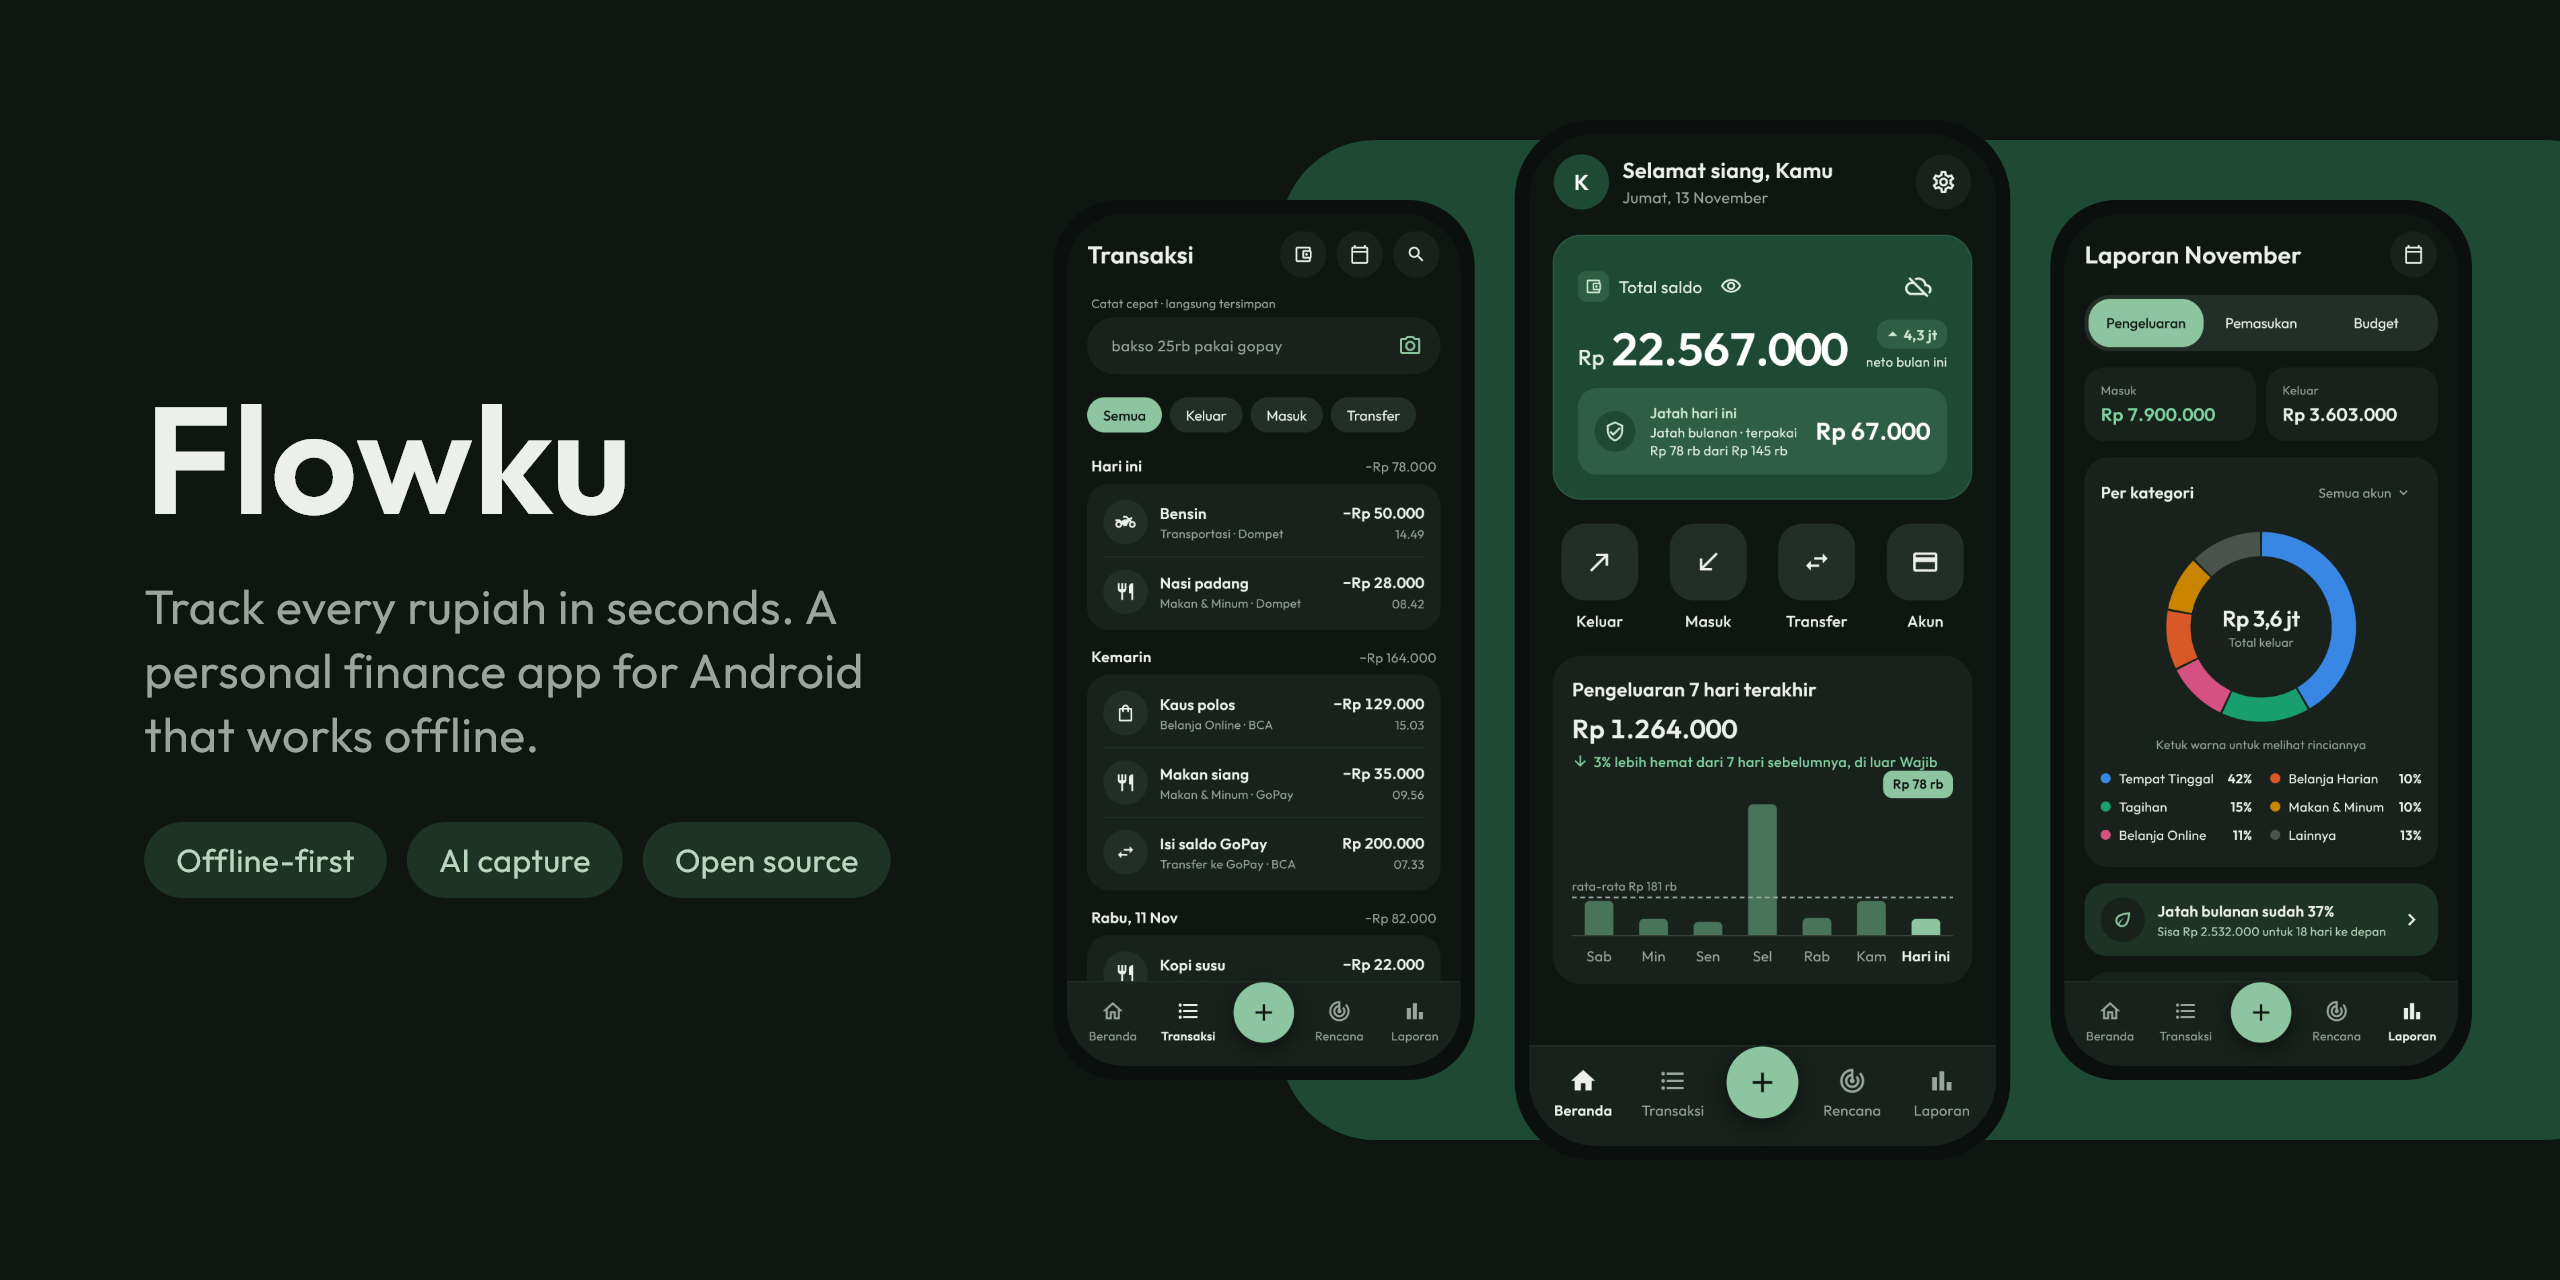
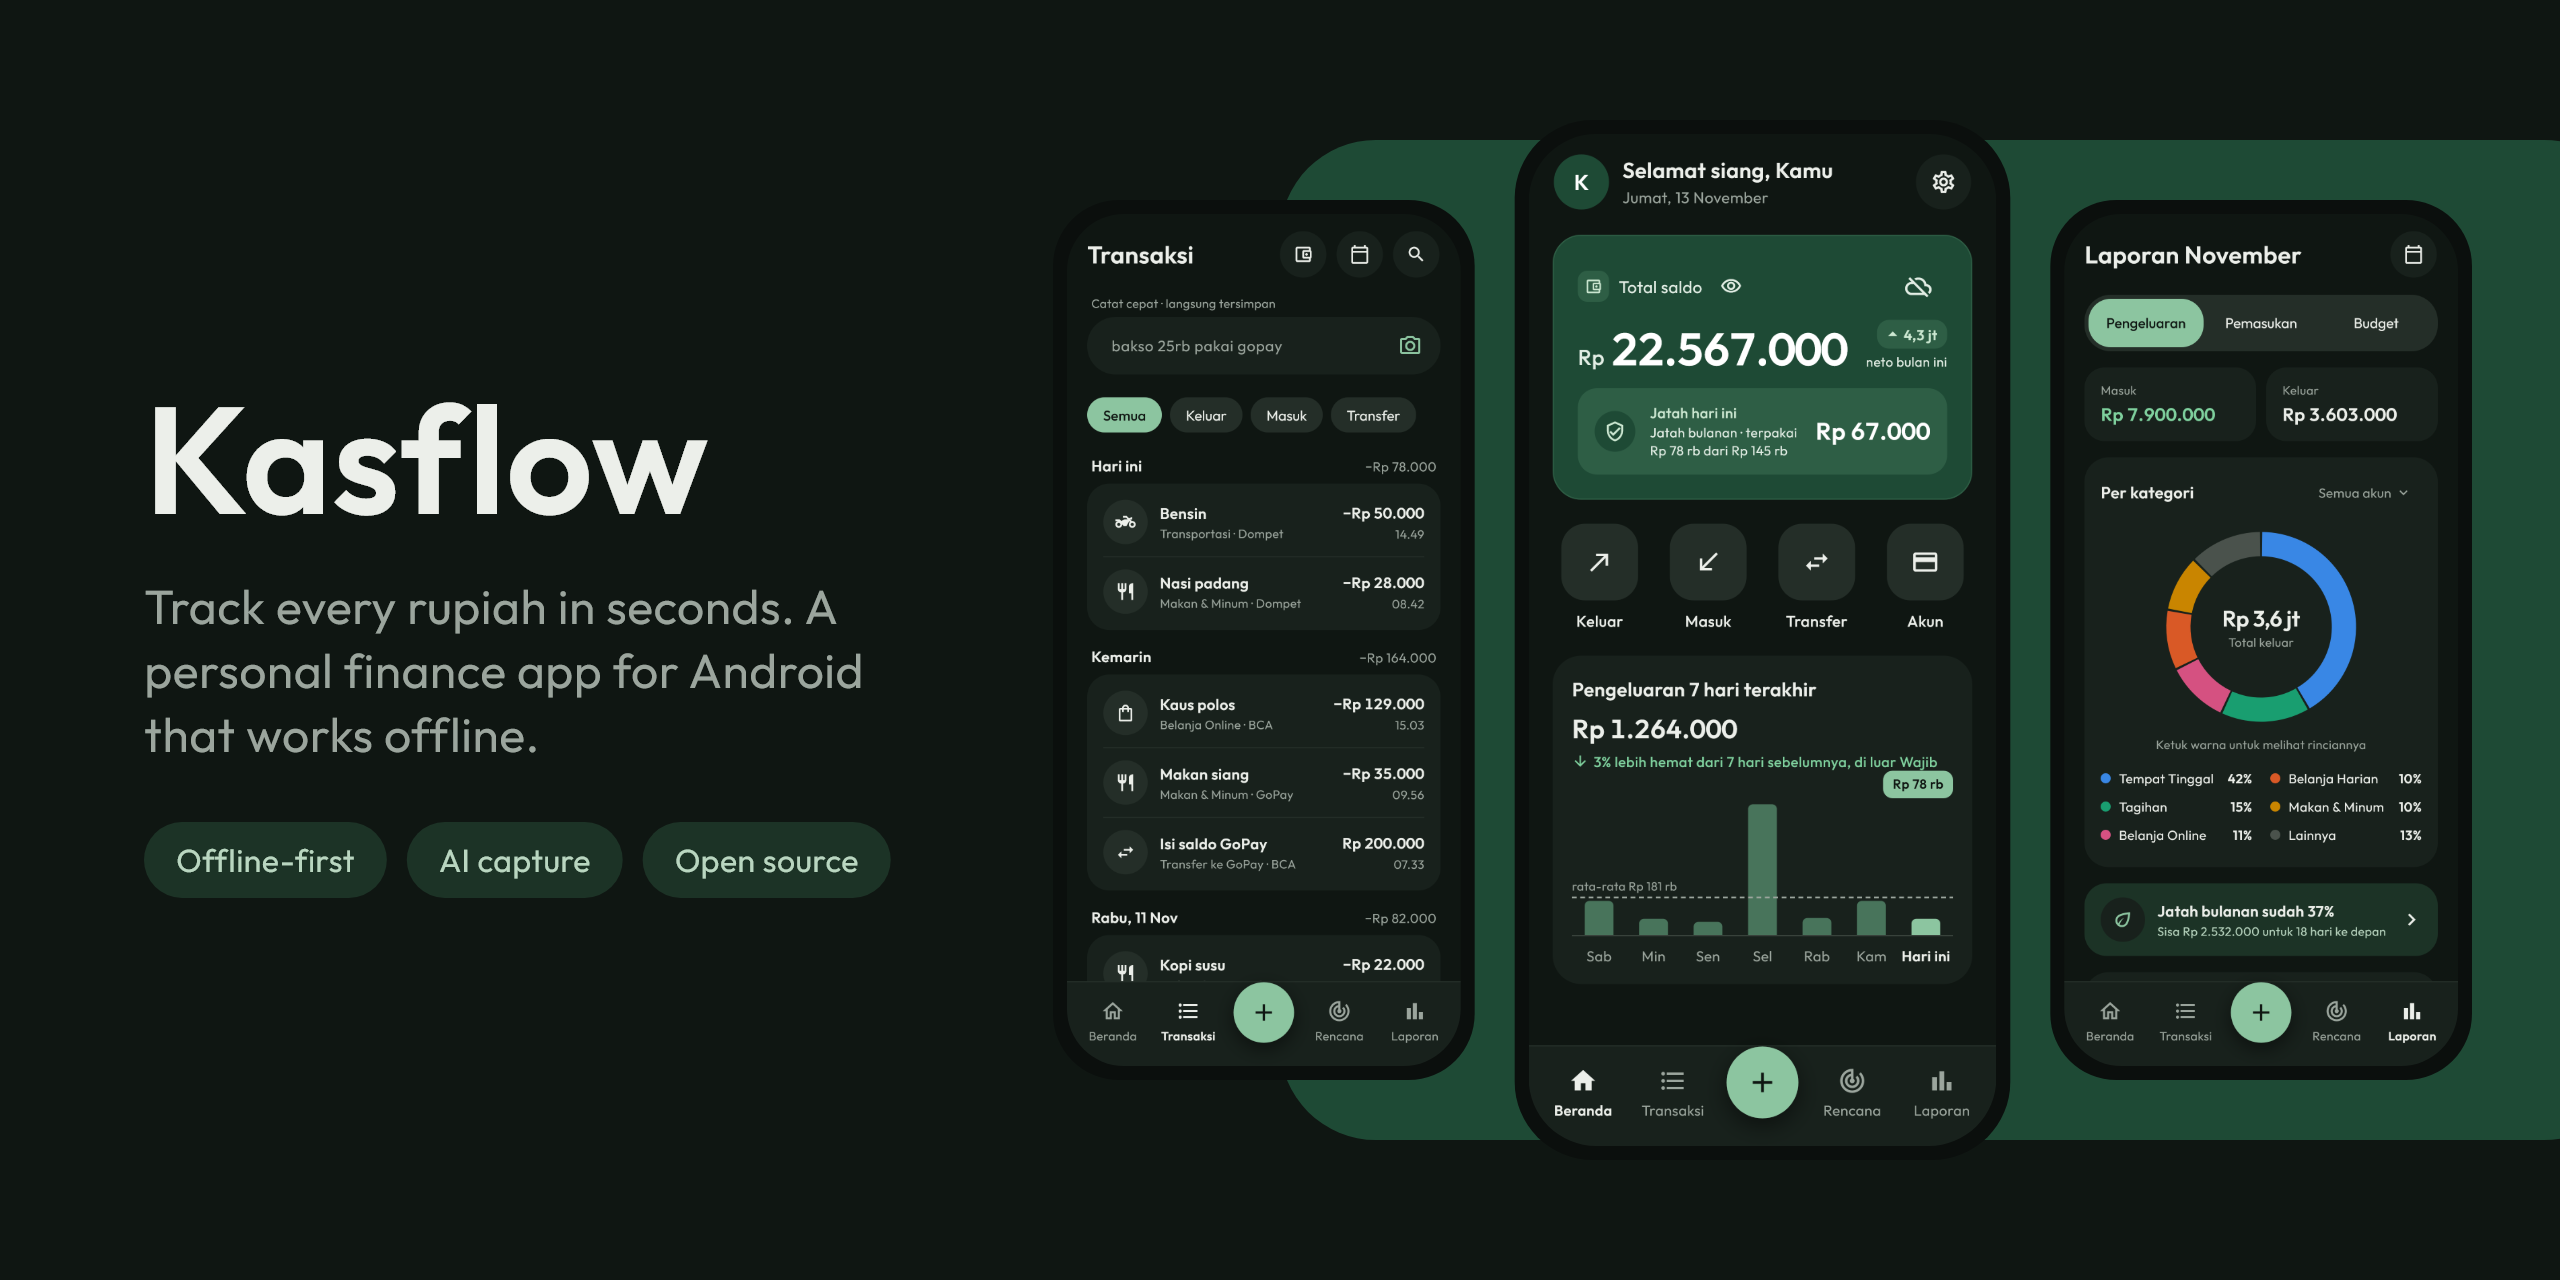
feat: rename the app to Kasflow

Changed region(s): [[0.0625, 0.3125, 0.2812, 0.4062]]

diff --git a/lib/screens/onboarding.dart b/lib/screens/onboarding.dart
@@ -970,7 +970,7 @@ class _NotificationIntro extends StatelessWidget {
       child: enabled
           ? step(
               null,
-              const Text('Flowku sudah boleh membaca notifikasi'),
+              const Text('Kasflow sudah boleh membaca notifikasi'),
               key: const ValueKey('on'),
               trailing: TextButton(
                 onPressed: openNotificationAccessSettings,
@@ -986,7 +986,7 @@ class _NotificationIntro extends StatelessWidget {
                 TextSpan(
                   children: [
                     TextSpan(text: 'Nyalakan '),
-                    TextSpan(text: 'Flowku', style: TextStyle(fontWeight: FontWeight.w600)),
+                    TextSpan(text: 'Kasflow', style: TextStyle(fontWeight: FontWeight.w600)),
                     TextSpan(text: ' di daftar Akses notifikasi, lalu kembali ke sini'),
                   ],
                 ),
@@ -1021,7 +1021,7 @@ class _NotificationIntro extends StatelessWidget {
                       active: active,
                       delay: const Duration(milliseconds: 120),
                       child: Text(
-                        'Setiap ada transaksi di BCA, GoPay, DANA, dan lainnya, Flowku menyiapkan catatannya. '
+                        'Setiap ada transaksi di BCA, GoPay, DANA, dan lainnya, Kasflow menyiapkan catatannya. '
                         'Kamu tinggal cek, lalu simpan.',
                         style: AppText.body.copyWith(height: 1.5, color: c.inkMuted),
                       ),
@@ -1029,7 +1029,7 @@ class _NotificationIntro extends StatelessWidget {
                     const SizedBox(height: 22),
                     ExcludeSemantics(child: _NotificationDemo(active: active)),
                     const SizedBox(height: 24),
-                    // Two things must be on, and only the first is Flowku's to ask for: Android lets it
+                    // Two things must be on, and only the first is Kasflow's to ask for: Android lets it
                     // read what other apps post, and the bank apps must post something to read.
                     Text('Cara mengaktifkan', style: AppText.bodyStrong),
                     const SizedBox(height: AppSpace.gap),

diff --git a/lib/app_lock.dart b/lib/app_lock.dart
@@ -8,7 +8,7 @@ import 'db.dart';
 import 'theme.dart';
 import 'ui.dart';
 
-// "Kunci dengan sidik jari": with it on, Flowku opens behind a lock that the phone's fingerprint
+// "Kunci dengan sidik jari": with it on, Kasflow opens behind a lock that the phone's fingerprint
 // (or its PIN, pattern or password) lifts.
 
 /// Pengaturan's switch (pref 'app_lock'); off unless turned on.
@@ -81,7 +81,7 @@ class _AppLockState extends State<AppLock> with WidgetsBindingObserver {
     if (_asking) return;
     _asking = true;
     // A phone whose screen lock was removed meanwhile cannot ask, so it opens.
-    final ok = await confirmOwner('Buka Flowku') ?? true;
+    final ok = await confirmOwner('Buka Kasflow') ?? true;
     _asking = false;
     if (ok && mounted) setState(() => _locked = false);
   }
@@ -118,7 +118,7 @@ class _LockScreen extends StatelessWidget {
                 child: Icon(Icons.lock_outline, size: 32, color: c.onHero),
               ),
               const SizedBox(height: 18),
-              Text('Flowku terkunci', style: AppText.title.copyWith(fontSize: 20)),
+              Text('Kasflow terkunci', style: AppText.title.copyWith(fontSize: 20)),
               const SizedBox(height: 6),
               Text(
                 'Buka dengan sidik jari atau kunci layar HP.',

diff --git a/screenshots/readme_test.dart b/screenshots/readme_test.dart
@@ -199,7 +199,7 @@ void main() {
   setUpAll(() async {
     await _loadFonts();
     await initializeDateFormatting('id_ID');
-    final dir = await Directory.systemTemp.createTemp('flowku-readme');
+    final dir = await Directory.systemTemp.createTemp('kasflow-readme');
     db = PowerSyncDatabase(schema: schema, path: '${dir.path}/readme.db');
     await db.initialize();
     await _seed();
@@ -323,7 +323,7 @@ class _Hero extends StatelessWidget {
               mainAxisAlignment: MainAxisAlignment.center,
               crossAxisAlignment: CrossAxisAlignment.start,
               children: [
-                Text('Flowku', style: AppText.title.copyWith(fontSize: 76, height: 1, color: c.ink)),
+                Text('Kasflow', style: AppText.title.copyWith(fontSize: 76, height: 1, color: c.ink)),
                 const SizedBox(height: 20),
                 Text(
                   'Track every rupiah in seconds. A personal finance app for Android that works offline.',

diff --git a/android/app/src/main/kotlin/com/cashflowapp/cashflow_app/AllowanceWidget.kt b/android/app/src/main/kotlin/com/cashflowapp/cashflow_app/AllowanceWidget.kt
@@ -73,12 +73,12 @@ class AllowanceWidget : AppWidgetProvider() {
             var over = false
             val day = today()
             when {
-                d == null -> detail = "Buka Flowku sekali untuk memuat jatah"
+                d == null -> detail = "Buka Kasflow sekali untuk memuat jatah"
                 !d.has("name") -> {
                     title = "Atur budget untuk melihat jatah harian"
-                    detail = "Buka Rencana di Flowku"
+                    detail = "Buka Rencana di Kasflow"
                 }
-                day >= d.getLong("endDay") -> detail = "${d.getString("name")} · periode baru, buka Flowku"
+                day >= d.getLong("endDay") -> detail = "${d.getString("name")} · periode baru, buka Kasflow"
                 else -> {
                     val name = d.getString("name")
                     val limit = d.getLong("limit")

diff --git a/test/screens_smoke_test.dart b/test/screens_smoke_test.dart
@@ -40,7 +40,7 @@ void main() {
       await tester.drag(find.byType(PageView), const Offset(-300, 0)); // swipe to page 2
       await tester.pumpAndSettle();
       expect(find.text('Catat otomatis dari notifikasi bank'), findsOneWidget);
-      // Access off here: both steps show on the one screen, the first asking for Flowku's access.
+      // Access off here: both steps show on the one screen, the first asking for Kasflow's access.
       expect(find.textContaining('di daftar Akses notifikasi'), findsOneWidget);
       expect(find.textContaining('Pastikan notifikasi transaksi'), findsOneWidget);
       await tester.tap(find.text('Lewati'));

diff --git a/android/app/src/main/kotlin/com/cashflowapp/cashflow_app/MainActivity.kt b/android/app/src/main/kotlin/com/cashflowapp/cashflow_app/MainActivity.kt
@@ -66,7 +66,7 @@ class MainActivity : FlutterFragmentActivity() {
 
     // The app's own tap feedback (lib/ui.dart haptic). View.performHapticFeedback obeys the system
     // touch-vibration switch, which many people turn off for the keyboard; a vibration of usage
-    // UNKNOWN does not, so Flowku's own toggle in Pengaturan decides instead.
+    // UNKNOWN does not, so Kasflow's own toggle in Pengaturan decides instead.
     private fun haptic(kind: String) {
         val vibrator = if (Build.VERSION.SDK_INT >= 31) {
             (getSystemService(VIBRATOR_MANAGER_SERVICE) as VibratorManager).defaultVibrator

diff --git a/lib/screens/settings_page.dart b/lib/screens/settings_page.dart
@@ -85,7 +85,7 @@ class _SettingsPageState extends State<SettingsPage> with WidgetsBindingObserver
 
   /// Turning the lock on or off asks for the fingerprint first, so nobody else can drop it.
   Future<void> _setLock(bool on) async {
-    final ok = await confirmOwner(on ? 'Nyalakan kunci Flowku' : 'Matikan kunci Flowku');
+    final ok = await confirmOwner(on ? 'Nyalakan kunci Kasflow' : 'Matikan kunci Kasflow');
     if (ok == null && mounted) showMessage(context, 'Pasang sidik jari atau kunci layar di pengaturan HP dulu.');
     if (ok != true) return; // cancelled: nothing to say
     haptic(Haptic.click);

diff --git a/lib/main.dart b/lib/main.dart
@@ -59,7 +59,7 @@ class App extends StatelessWidget {
     return ValueListenableBuilder(
       valueListenable: themeMode,
       builder: (context, mode, _) => MaterialApp(
-        title: 'Flowku',
+        title: 'Kasflow',
         theme: buildAppTheme(Brightness.light),
         darkTheme: buildAppTheme(Brightness.dark),
         themeMode: mode,

diff --git a/AGENTS.md b/AGENTS.md
@@ -32,7 +32,7 @@ For a library or SDK question (Flutter, PowerSync, Supabase), look up current do
 ## Scope
 
 - Android-only personal finance app. Screens are phone-sized; no web build is planned.
-- The app is named Flowku. The Android `applicationId`, the Kotlin package, and the Dart package keep the old `cashflow` names on purpose: a new `applicationId` is a different app to Android, so the owner's phone would lose its data.
+- The app is named Kasflow. The owner chose it knowing that "KashFlow" (UK accounting software, and a Play Store app) sounds the same; re-check the name before any Play Store release. The Android `applicationId`, the Kotlin package, and the Dart package keep the old `cashflow` names on purpose: a new `applicationId` is a different app to Android, so the owner's phone would lose its data.
 - Personal only: every row belongs to one `user_id`, with per-user RLS and PowerSync streams. Family or household features (shared accounts, members) will be a separate app, so keep them out of this one.
 
 ## Design
@@ -51,7 +51,7 @@ For a library or SDK question (Flutter, PowerSync, Supabase), look up current do
 - The owner uses the app daily on their phone (Galaxy A54). After any device check, leave a release build installed. Debug builds stutter (600-800 ms frames), and the owner reads that as lag.
 - Use the release commands in `README.md` exactly, with `--split-per-abi`. That build has versionCode 2001; a plain `--release` build has versionCode 1 and fails with `INSTALL_FAILED_VERSION_DOWNGRADE`.
 - Always update in place with `adb install -r`. The phone holds the owner's real data, and uninstalling wipes it.
-- The phone is often in the owner's hand, in another app. Before each `adb shell input` tap, take a screenshot and confirm it shows the screen the tap is meant for, not only that Flowku holds focus (`adb shell dumpsys window | grep mCurrentFocus`). A tap aimed at one screen can land on another: on the home screen it opens whatever app sits there, and in Flowku it can reach Profil's Keluar.
+- The phone is often in the owner's hand, in another app. Before each `adb shell input` tap, take a screenshot and confirm it shows the screen the tap is meant for, not only that Kasflow holds focus (`adb shell dumpsys window | grep mCurrentFocus`). A tap aimed at one screen can land on another: on the home screen it opens whatever app sits there, and in Kasflow it can reach Profil's Keluar.
 - `adb` is not on PATH. On Windows, call `%LOCALAPPDATA%\Android\Sdk\platform-tools\adb.exe`.
 - The phone is paired for Wi-Fi debugging. If `adb devices` is empty, run `adb mdns services` to find the current connect port, then `adb connect <ip:port>`. The port changes when Wi-Fi debugging restarts.
 
@@ -62,7 +62,7 @@ For a library or SDK question (Flutter, PowerSync, Supabase), look up current do
 
 ## Git
 
-- `main` is linear and the only long-lived branch (GitHub: zzayyan/flowku). Commit on a short feature branch.
+- `main` is linear and the only long-lived branch (GitHub: zzayyan/kasflow). Commit on a short feature branch.
 - Run `flutter analyze` and `flutter test` before committing. Run the Supabase tests (see `README.md`) only when `supabase/` changes.
 - When the owner approves, fast-forward main (`git merge --ff-only <branch>`), `git push origin main`, then delete the branch.
 - Commits and PRs carry the owner as the only author. Write the message without AI co-author trailers or "Generated with" lines.

diff --git a/README.md b/README.md
@@ -3,20 +3,20 @@
 <picture>
   <source media="(prefers-color-scheme: dark)" srcset="docs/readme/hero-dark.png">
   <source media="(prefers-color-scheme: light)" srcset="docs/readme/hero-light.png">
-  <img src="docs/readme/hero-light.png" alt="Flowku: track every rupiah in seconds" width="100%">
+  <img src="docs/readme/hero-light.png" alt="Kasflow: track every rupiah in seconds" width="100%">
 </picture>
 
 <a href="LICENSE"><img src="https://img.shields.io/badge/license-GPL--3.0-1E4A35?style=flat-square" alt="GPL-3.0"></a>
-<a href="https://github.com/zzayyan/flowku/actions/workflows/checks.yml"><img src="https://img.shields.io/github/actions/workflow/status/zzayyan/flowku/checks.yml?branch=main&label=checks&style=flat-square" alt="Checks"></a>
+<a href="https://github.com/zzayyan/kasflow/actions/workflows/checks.yml"><img src="https://img.shields.io/github/actions/workflow/status/zzayyan/kasflow/checks.yml?branch=main&label=checks&style=flat-square" alt="Checks"></a>
 <img src="https://img.shields.io/badge/platform-Android-1E4A35?style=flat-square&logo=android&logoColor=white" alt="Android">
 <img src="https://img.shields.io/badge/Flutter-3.47-1E4A35?style=flat-square&logo=flutter&logoColor=white" alt="Flutter 3.47">
 
 </div>
 
-## Why Flowku
+## Why Kasflow
 
 Most money apps only work if you keep feeding them, and every extra tap is a reason to stop.
-Flowku keeps recording down to a few seconds: type one sentence, snap a receipt, or let your bank's
+Kasflow keeps recording down to a few seconds: type one sentence, snap a receipt, or let your bank's
 notification do it. Then it shows where the money went and whether the month is on track.
 
 - **Offline-first.** Your data lives in SQLite on the phone and syncs to your own Supabase project
@@ -88,7 +88,7 @@ The screenshots show made-up data. `screenshots/readme_test.dart` renders them, 
 
 ## Getting started
 
-Flowku runs on your own backend: a free Supabase project and a free PowerSync instance.
+Kasflow runs on your own backend: a free Supabase project and a free PowerSync instance.
 
 1. Install Flutter and connect an Android phone with USB debugging (`flutter devices` should list it).
 2. Connect the backend: run `./scripts/setup-backend.sh` in Git Bash. It walks through Supabase and PowerSync and writes `.env` (template: `.env.example`).

diff --git a/PRODUCT.md b/PRODUCT.md
@@ -14,7 +14,7 @@ Confirmed: the owner is the primary user today. A public Play Store release is p
 
 ## Product Purpose
 
-Flowku is a personal finance app for Android (Flutter). It lets one person capture transactions with little effort, keep accounts, categories, labels, bills, and plans in order, read reports, and get an AI assessment of their finances. Success: the owner records transactions as a habit and trusts the numbers.
+Kasflow is a personal finance app for Android (Flutter). It lets one person capture transactions with little effort, keep accounts, categories, labels, bills, and plans in order, read reports, and get an AI assessment of their finances. Success: the owner records transactions as a habit and trusts the numbers.
 
 ## Positioning
 
